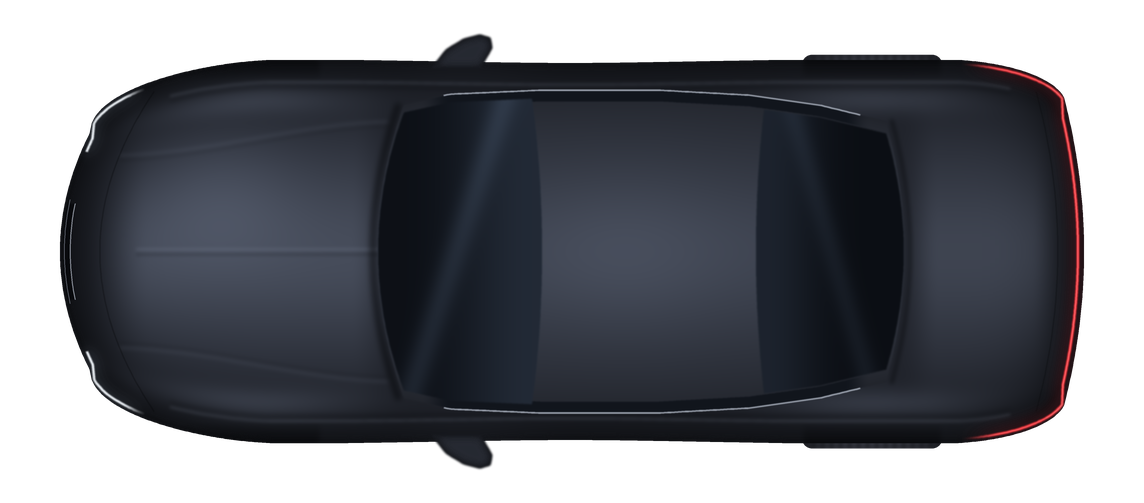
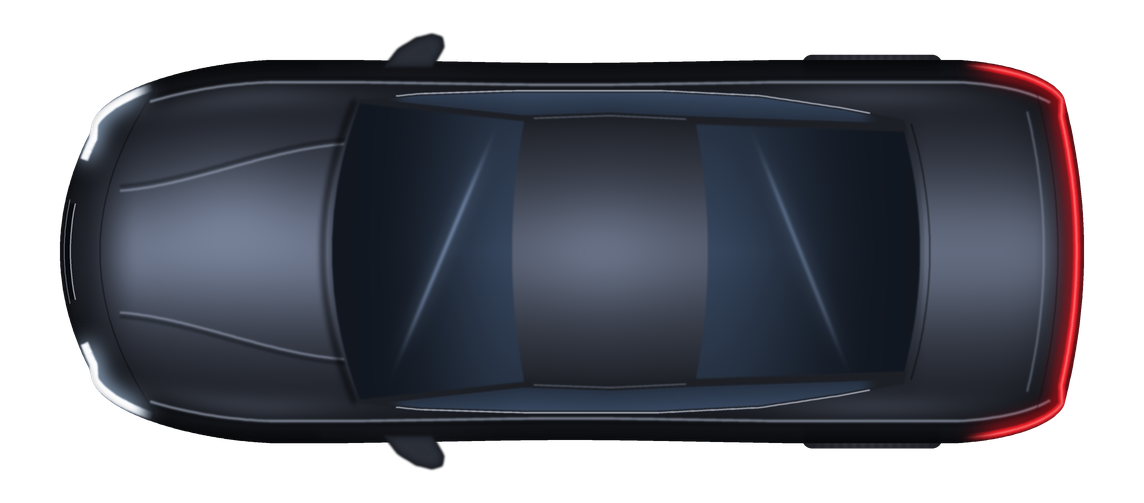
feat(hud): K9 R 차 그림 완성본 - 실물 비율 유리·지붕, 입체 음영, 또렷한 램프, 꺾인 앞바퀴 펜더 안 (대감님 11/13 00:20)
- 비율(2020 K9 RJ, 길이 5.12 m): 보닛 1.30 m(앞 패널 틈 0.20 -> 카울 1.50), 앞유리 1.50 -> 2.32,
  지붕 2.32 -> 3.18(가운데 2.75 = 차 가운데 2.56보다 0.19 m 뒤), 뒷유리 패스트백 3.18 -> 4.22, 트렁크 0.90 m
- 앞유리 아래 넓은 사다리꼴(반폭 0.74 -> 0.65), 위아래 곡선. 유리에 하늘 반사 그라데이션 + 대각 하이라이트 한 줄
- 지붕·보닛·트렁크 가운데 밝고 양옆 어두운 가로 그라데이션, 어깨선·보닛 주름 하이라이트+어두운 접힘 쌍
- 옆유리 약 0.10 m 폭으로 넓힘, 사이드미러 A필러 뒤로
- 후미등 굵게(0.034 m)+빨간 빛 번짐, 헤드램프 굵고 밝게
- 앞바퀴: 꺾일 때 튀어나오는 만큼 중심을 안쪽으로(표시만), 펜더 밖으로 최대 0.02 m 더
- 후진 길(REVERSE_GEOMETRY 3.105/14.5)·축척·차 크기·글자 자리 그대로. EV6 P/R/D, K9 P/D 화소 0(72e78f13d 대비),
  HUD 묶음 실패 6 이름 41aaddcb9와 동일, ruff 새 경고 0, 실차 미검증

diff --git a/openpilot/selfdrive/carrot/cluster/make_k9_reverse_sprite.py b/openpilot/selfdrive/carrot/cluster/make_k9_reverse_sprite.py
@@ -1,11 +1,14 @@
 #!/usr/bin/env python3
 """Top view of the 2020 K9 (RJ) for the K9 reverse (R) screen, drawn in code (no photo, no 3D model, no plate, no logo).
 
-Surround-view style illustration: smooth tapered nose and tail with a slight waist, a long hood with soft creases,
-one smooth painted roof (black metal gradient) between the dark windshield and rear glass, side glass only as thin
-slivers under a fine chrome window line, mirrors, four tyres at the 3105 mm wheelbase / ~1630 mm track that peek a
-few px past the body, a thin full-width tail lamp line wrapping round both corners, thin white headlamps at the
-front corners and a small chrome grille line at the nose. Soft shadow, no hard light rim.
+Surround-view style illustration (2020 K9 RJ proportions): hood 1.30 m from the front panel gap to the cowl, wide
+trapezoid windshield with curved edges, roof centre 2.75 m from the nose (car centre 2.56 m, i.e. 0.19 m behind), long
+gentle fastback rear glass, trunk lid 0.90 m. Dark metal paint bright along the centre line and darker to both sides
+(hood, roof, trunk), fine shoulder and hood crease highlights, side glass wide enough to read on the R screen, glass
+with a sky reflection gradient and one thin diagonal highlight, mirrors, four tyres at the 3105 mm wheelbase /
+~1630 mm track that peek a few px past the body (front tyres are drawn by the renderer under the body), a bright red
+tail lamp line with glow wrapping round both corners, bright white headlamps at the front corners, small chrome
+grille line at the nose. Soft shadow, no hard light rim, no logo or plate.
 Plan size 5120 x 1915 mm. Drawn at SS x the output resolution, then reduced (smooth edges).
 Car front to the left, car right side up (same as the R screen camera).
 Outputs (same frame: PAD metres of margin around the body at PPM px/m):
@@ -129,16 +132,24 @@ def to_image(rgb, alpha, size):
   return Image.fromarray(out, "RGBA").resize(size, Image.LANCZOS)
 
 
-# ---- greenhouse ---------------------------------------------------------------------------------------------
-G_U = np.array([1.72, 1.95, 2.40, 3.00, 3.45, 3.80, 4.13])
-G_V = np.array([0.735, 0.785, 0.805, 0.805, 0.780, 0.730, 0.650])
-G_FRONT_BOW, G_REAR_BOW = 0.13, 0.09
-ROOF_F, ROOF_R = 2.36, 3.52  # windshield top / rear glass top
-SIDE_GLASS = 0.055  # side glass seen from above: only a thin sliver outside the roof
+# ---- greenhouse (2020 K9 RJ proportions, top view) ---------------------------------------------------------------
+# hood 0.20 -> COWL (1.30 m), windshield COWL -> ROOF_F, roof ROOF_F -> ROOF_R (centre 2.75, car centre 2.56),
+# fastback rear glass ROOF_R -> DECK, trunk lid DECK -> L (0.90 m)
+COWL, ROOF_F, ROOF_R, DECK = 1.50, 2.32, 3.18, 4.22
+G_U = np.array([COWL, 1.80, 2.30, 3.00, 3.50, 3.90, DECK])
+G_V = np.array([0.760, 0.790, 0.805, 0.805, 0.780, 0.720, 0.660])  # glass outer edge (beltline)
+C_U = np.array([COWL, ROOF_F, 2.75, ROOF_R, DECK])
+C_V = np.array([0.740, 0.650, 0.665, 0.645, 0.610])  # cabin top: windshield / roof / rear glass edge (pillars inside)
+G_FRONT_BOW, G_REAR_BOW = 0.16, 0.10
+PILLAR = 0.030  # A / C pillar and roof rail width seen from above
 
 
 def g_half(u):
   return np.interp(u, G_U, G_V)
+
+
+def c_half(u):
+  return np.interp(u, C_U, C_V)
 
 
 def band(u0, u1, half, bow0, bow1, n=200):
@@ -194,9 +205,9 @@ def render():
   # mirrors: teardrop on each side just behind the A-pillar base (body coloured caps)
   mirrors = []
   for s in (1, -1):
-    base = float(body_half(2.02))
-    pts = [(1.86, s * (base - 0.03)), (1.93, s * (base + 0.06)), (2.02, s * (base + 0.115)), (2.10, s * (base + 0.135)),
-           (2.15, s * (base + 0.12)), (2.16, s * (base + 0.07)), (2.12, s * (base + 0.0)), (2.10, s * (base - 0.03))]
+    base = float(body_half(1.78))
+    pts = [(1.62, s * (base - 0.03)), (1.69, s * (base + 0.06)), (1.78, s * (base + 0.115)), (1.86, s * (base + 0.135)),
+           (1.91, s * (base + 0.12)), (1.92, s * (base + 0.07)), (1.88, s * (base + 0.0)), (1.86, s * (base - 0.03))]
     arr = np.array(pts)
     t = np.linspace(0, 1, len(arr))
     xs = np.linspace(0, 1, 60)
@@ -228,19 +239,21 @@ def render():
     m = tyre_mask(REAR_AXLE_U, v_c, WHEEL_D, w)
     rgb, alpha = over(rgb, alpha, tyre_paint(U, V, REAR_AXLE_U, v_c, WHEEL_D, w), m)
 
-  # paint: dark metal, lit from above - a broad soft sheen on the centre, darker towards the curved edges
-  edge = blur(car, 0.20)
-  shade = 0.42 + 0.58 * np.clip((edge - 0.5) * 2.0, 0, 1) ** 0.8
-  base = np.array([34, 37, 45], np.float32)
-  spec_col = np.array([120, 130, 150], np.float32)
+  # paint: dark metal lit from above - bright along the centre line, darker towards both sides (hood, roof, trunk)
+  edge = blur(car, 0.16)
+  rim_shade = 0.40 + 0.60 * np.clip((edge - 0.5) * 2.0, 0, 1) ** 0.7
   bw_u = body_half(np.clip(U, 0, L))
   vn = V / np.maximum(bw_u, 0.3)
-  hood = smooth(0.10, 0.45, U) * (1 - smooth(1.45, 1.72, U))
-  trunk = smooth(4.18, 4.40, U) * (1 - smooth(4.85, 5.05, U))
-  sheen = np.exp(-(vn / 0.55) ** 2) * (0.30 * hood + 0.24 * trunk)
-  sheen += 0.12 * np.exp(-((U - 0.80) / 0.40) ** 2 - ((V - 0.30) / 0.35) ** 2) * hood  # soft key light patch
+  cross = np.clip(1 - vn ** 2, 0, 1)
+  shade = rim_shade * (0.50 + 0.50 * cross ** 0.8)
+  base = np.array([42, 46, 56], np.float32)
+  spec_col = np.array([140, 152, 176], np.float32)
+  hood = smooth(0.12, 0.40, U) * (1 - smooth(COWL - 0.15, COWL, U))
+  trunk = smooth(DECK, DECK + 0.12, U) * (1 - smooth(L - 0.25, L - 0.05, U))
+  sheen = np.exp(-(vn / 0.42) ** 2) * (0.46 * hood + 0.40 * trunk)
+  sheen += 0.14 * np.exp(-((U - 0.85) / 0.35) ** 2 - ((V - 0.25) / 0.30) ** 2) * hood  # soft key light patch
   axles = np.exp(-((U - FRONT_AXLE_U) / 0.50) ** 2) + np.exp(-((U - REAR_AXLE_U) / 0.50) ** 2)
-  fender = np.exp(-((np.abs(vn) - 0.80) / 0.08) ** 2) * axles * 0.22  # fender shoulders catch a little light
+  fender = np.exp(-((np.abs(vn) - 0.82) / 0.07) ** 2) * axles * 0.26  # fender shoulders catch a little light
   spec = sheen + fender
   paint = base * shade[..., None] + spec_col * spec[..., None] * shade[..., None]
   rgb, alpha = over(rgb, alpha, paint, car)
@@ -260,96 +273,107 @@ def render():
       m = blur(m, soft)
     rgb, alpha = over(rgb, alpha, color, m * a * car)
 
-  # waist / shoulder line along both sides (subtle highlight over a soft dark line)
+  # shoulder line along both sides: fine bright highlight with a dark fold just outside it
   for s in (1, -1):
-    us = np.linspace(0.55, 4.75, 120)
+    us = np.linspace(0.45, 4.95, 160)
     vs = s * (body_half(us) * 0.885)
-    paint_lines(list(zip(us, vs, strict=True)), 0.010, (150, 160, 180), 0.22, 0.008)
-    paint_lines(list(zip(us, vs - s * 0.025, strict=True)), 0.016, (8, 9, 12), 0.22, 0.010)
-  # hood: soft centre crease and two gentle character lines
-  us = np.linspace(0.38, 1.60, 60)
-  paint_lines(list(zip(us, np.full_like(us, 0.012), strict=True)), 0.010, (150, 160, 182), 0.20, 0.008)
-  paint_lines(list(zip(us, np.full_like(us, -0.014), strict=True)), 0.012, (6, 7, 9), 0.20, 0.008)
+    paint_lines(list(zip(us, vs, strict=True)), 0.013, (185, 196, 216), 0.60, 0.004)
+    paint_lines(list(zip(us, vs + s * 0.022, strict=True)), 0.016, (6, 7, 10), 0.45, 0.006)
+  # hood: two character creases converging to the nose (light on the inner face, dark on the outer)
   for s in (1, -1):
-    us = np.linspace(0.30, 1.64, 60)
-    vs = s * (0.48 + 0.17 * smooth(0.25, 1.7, us))
-    paint_lines(list(zip(us, vs, strict=True)), 0.010, (140, 150, 172), 0.18, 0.010)
-    paint_lines(list(zip(us, vs - s * 0.02, strict=True)), 0.012, (6, 7, 9), 0.16, 0.010)
-  # panel gaps: hood front, trunk lid (fine, dark, low contrast)
+    us = np.linspace(0.30, COWL - 0.06, 80)
+    vs = s * (0.30 + 0.24 * smooth(0.20, COWL, us))
+    paint_lines(list(zip(us, vs, strict=True)), 0.013, (175, 186, 208), 0.50, 0.004)
+    paint_lines(list(zip(us, vs + s * 0.022, strict=True)), 0.016, (6, 7, 10), 0.42, 0.006)
+  # trunk: lip line near the rear edge
+  vv = np.linspace(-0.70, 0.70, 80)
+  paint_lines([(rear_edge(x) - 0.20, x) for x in vv], 0.010, (165, 176, 198), 0.40, 0.004)
+  # panel gaps: hood front, trunk lid front, trunk rear
   vv = np.linspace(-0.80, 0.80, 80)
-  paint_lines([(front_edge(x) + 0.20, x) for x in vv], 0.005, (6, 7, 9), 0.45, 0.002)
-  vv = np.linspace(-0.66, 0.66, 80)
-  paint_lines([(4.13 + G_REAR_BOW * (1 - (x / 0.65) ** 2) + 0.03, x) for x in vv], 0.016, (4, 5, 7), 0.45, 0.010)
+  paint_lines([(front_edge(x) + 0.20, x) for x in vv], 0.006, (6, 7, 9), 0.55, 0.002)
+  vv = np.linspace(-0.64, 0.64, 80)
+  paint_lines([(DECK + G_REAR_BOW * (1 - (x / 0.66) ** 2) + 0.03, x) for x in vv], 0.008, (4, 5, 7), 0.55, 0.003)
   vv = np.linspace(-0.80, 0.80, 80)
-  paint_lines([(rear_edge(x) - 0.13, x) for x in vv], 0.005, (6, 7, 9), 0.40, 0.002)
+  paint_lines([(rear_edge(x) - 0.13, x) for x in vv], 0.006, (6, 7, 9), 0.45, 0.002)
 
-  # ---- greenhouse: dark windshield and rear glass, one smooth painted roof, thin side glass slivers ----
-  g_mask = mask_of(band(1.72, 4.13, g_half, G_FRONT_BOW, G_REAR_BOW))
-  glass_dark = np.array([6, 8, 12], np.float32)
-  sky = np.array([70, 84, 104], np.float32)
-  vv = np.linspace(-0.74, 0.74, 80)  # cowl shadow in front of the windshield
-  paint_lines([(1.72 - G_FRONT_BOW * (1 - (x / 0.74) ** 2) - 0.025, x) for x in vv], 0.03, (3, 4, 6), 0.55, 0.014)
-  # whole cabin top in paint first (roof + pillars), then the glass areas cut into it
-  rv = V / np.maximum(g_half(np.clip(U, 1.72, 4.13)), 0.3)
+  # ---- greenhouse: wide trapezoid windshield, roof, fastback rear glass, side glass ----
+  g_mask = mask_of(band(COWL, DECK, g_half, G_FRONT_BOW, G_REAR_BOW))
+  glass_dark = np.array([5, 7, 11], np.float32)
+  sky = np.array([95, 122, 160], np.float32)
+  vv = np.linspace(-0.76, 0.76, 80)  # cowl shadow in front of the windshield
+  paint_lines([(COWL - G_FRONT_BOW * (1 - (x / 0.76) ** 2) - 0.025, x) for x in vv], 0.03, (3, 4, 6), 0.60, 0.012)
+  # whole cabin top in paint first (roof + pillars): bright centre, darker to both sides
+  rv = V / np.maximum(c_half(np.clip(U, COWL, DECK)), 0.3)
   ru = (U - ROOF_F) / (ROOF_R - ROOF_F)
-  roof_shade = 0.58 + 0.42 * np.clip(1 - rv ** 2, 0, 1) ** 0.7
-  roof_spec = 0.10 + 0.20 * np.exp(-(rv / 0.55) ** 2) * (0.6 + 0.4 * np.exp(-((ru - 0.40) / 0.45) ** 2))
+  roof_shade = 0.40 + 0.60 * np.clip(1 - rv ** 2, 0, 1) ** 0.8
+  roof_spec = 0.08 + 0.34 * np.exp(-(rv / 0.45) ** 2) * (0.55 + 0.45 * np.exp(-((ru - 0.45) / 0.45) ** 2))
   roof_col = base * 1.05 * roof_shade[..., None] + spec_col * roof_spec[..., None]
   rgb, alpha = over(rgb, alpha, roof_col, blur(g_mask, 0.004))
 
-  def inset_half(d):
-    return lambda u: np.maximum(g_half(u) - d, 0.05)
+  def inset(f, d):
+    return lambda u: np.maximum(f(u) - d, 0.05)
 
-  # side glass: thin dark sliver along each side of the cabin (tumblehome seen from above)
-  side = mask_of(band(1.80, 4.05, g_half, 0.0, 0.0)) * (1 - mask_of(band(1.70, 4.15, inset_half(SIDE_GLASS), 0.0, 0.0)))
-  side = blur(side, 0.003)
-  rgb, alpha = over(rgb, alpha, glass_dark + sky * 0.16, side * smooth(1.80, 1.95, U) * (1 - smooth(3.92, 4.05, U)))
-  # windshield: from the cowl to the roof front, between thin A pillars
-  ws = mask_of(band(1.72, ROOF_F, inset_half(0.040), G_FRONT_BOW, 0.05))
-  t = smooth(1.60, ROOF_F, U)
-  ws_col = glass_dark + sky * (0.10 + 0.30 * t ** 1.6)[..., None]
-  ws_col = ws_col + np.array([80, 95, 115]) * (np.exp(-(((U - 1.98) - V * 0.32) / 0.07) ** 2) * 0.20)[..., None]
-  rgb, alpha = over(rgb, alpha, ws_col, blur(ws, 0.004))
-  # rear glass: from the roof back edge to the trunk, between C pillars
-  rgm = mask_of(band(ROOF_R, 4.13, inset_half(0.060), 0.04, G_REAR_BOW))
-  t2 = 1 - smooth(ROOF_R, 4.12, U)
-  rg_col = glass_dark + sky * (0.08 + 0.24 * t2 ** 2)[..., None]
-  rg_col = rg_col + np.array([80, 95, 115]) * (np.exp(-(((U - 3.86) + V * 0.28) / 0.06) ** 2) * 0.12)[..., None]
-  rgb, alpha = over(rgb, alpha, rg_col, blur(rgm, 0.004))
-  # chrome window line (DLO): thin, along the outer edge of the side glass
+  def outset(f, d):
+    return lambda u: f(u) + d
+
+  # side glass: between the beltline and the pillars / roof rail
+  side = mask_of(band(1.62, 4.10, inset(g_half, 0.010), 0.0, 0.0)) * (1 - mask_of(band(1.40, 4.30, outset(c_half, PILLAR), 0.0, 0.0)))
+  side = blur(side, 0.003) * smooth(1.62, 1.75, U) * (1 - smooth(3.98, 4.10, U))
+  sg_col = glass_dark + sky * (0.30 + 0.22 * np.clip((np.abs(V) - c_half(np.clip(U, COWL, DECK))) / 0.14, 0, 1))[..., None]
+  rgb, alpha = over(rgb, alpha, sg_col, side)
+
+  def glass(mask, t, k_line, u_line, strength):
+    """dark glass with sky reflection (bright towards t=1) and one thin diagonal highlight."""
+    nonlocal rgb, alpha
+    col = glass_dark + sky * (0.13 + 0.40 * t ** 1.5)[..., None]
+    d = (U - u_line) - V * k_line
+    streak = (np.exp(-(d / 0.014) ** 2) * 0.32 + np.exp(-(d / 0.06) ** 2) * 0.10) * np.exp(-(V / 0.45) ** 4)
+    col = col + np.array([150, 170, 200], np.float32) * (streak * strength)[..., None]
+    rgb, alpha = over(rgb, alpha, col, blur(mask, 0.004))
+
+  # windshield: wide at the cowl, narrower at the roof (A pillars), curved top and bottom edges
+  ws = mask_of(band(COWL, ROOF_F, c_half, G_FRONT_BOW - 0.02, -0.06))
+  glass(ws, smooth(COWL - 0.10, ROOF_F, U) * (1 - 0.35 * np.abs(V) / 0.75), 0.42, 1.92, 1.0)
+  # rear glass: long gentle fastback from the roof back edge to the trunk lid, C pillars
+  rgm = mask_of(band(ROOF_R, DECK, inset(c_half, 0.010), -0.06, G_REAR_BOW - 0.02))
+  glass(rgm, (1 - smooth(ROOF_R, DECK + 0.10, U)) * (1 - 0.35 * np.abs(V) / 0.70), -0.40, 3.70, 0.75)
+  # chrome window line (DLO) along the beltline
   for s in (1, -1):
-    us = np.linspace(1.92, 4.00, 120)
-    paint_lines(list(zip(us, s * (g_half(us) + 0.002), strict=True)), 0.007, (200, 208, 222), 0.80, 0.002)
+    us = np.linspace(1.68, 4.05, 120)
+    paint_lines(list(zip(us, s * g_half(us), strict=True)), 0.008, (205, 212, 226), 0.80, 0.002)
+  # roof rails: fine highlight on the roof edge
+  for s in (1, -1):
+    us = np.linspace(ROOF_F + 0.05, ROOF_R - 0.05, 80)
+    paint_lines(list(zip(us, s * (c_half(us) + PILLAR * 0.5), strict=True)), 0.008, (150, 160, 182), 0.40, 0.003)
 
   # ---- lamps ----
-  # tail lamp: one thin light line across the rear, running smoothly round both corners and along the sides
+  # tail lamp: one bright red light line across the rear, wrapping round both corners, with a red glow
   vr = float(body_half(L - BOW_R))
-  # one continuous chain: left wrap -> rear -> right wrap
-  left = [(u, -(body_half(u) - 0.020)) for u in np.linspace(L - 0.62, L - BOW_R - 0.02, 40)]
-  rear = [(rear_edge(x) - 0.030, x) for x in np.linspace(-vr + 0.06, vr - 0.06, 160)]
-  right = [(u, body_half(u) - 0.020) for u in np.linspace(L - BOW_R - 0.02, L - 0.62, 40)]
+  left = [(u, -(body_half(u) - 0.024)) for u in np.linspace(L - 0.62, L - BOW_R - 0.02, 40)]
+  rear = [(rear_edge(x) - 0.036, x) for x in np.linspace(-vr + 0.06, vr - 0.06, 160)]
+  right = [(u, body_half(u) - 0.024) for u in np.linspace(L - BOW_R - 0.02, L - 0.62, 40)]
   tl_chain = left + rear + right
-  tl = blur(line_mask(tl_chain, 0.014), 0.003)
-  taper = smooth(L - 0.62, L - 0.40, U)  # wraps fade out along the sides
-  tl = tl * taper
-  rgb, alpha = over(rgb, alpha, (255, 30, 40), np.clip(blur(tl, 0.035) * 1.5, 0, 1) * 0.45 * car)
-  rgb, alpha = over(rgb, alpha, (255, 55, 62), tl * car)
-  rgb, alpha = over(rgb, alpha, (255, 175, 175), blur(line_mask(tl_chain, 0.004), 0.002) * taper * 0.55 * car)
-  # headlamps: thin white light at both front corners, wrapping a little along the sides
+  taper = smooth(L - 0.62, L - 0.40, U)
+  tl = blur(line_mask(tl_chain, 0.034), 0.004) * taper
+  rgb, alpha = over(rgb, alpha, (255, 20, 30), np.clip(blur(tl, 0.045) * 2.2, 0, 1) * 0.75 * car)
+  rgb, alpha = over(rgb, alpha, (240, 28, 38), tl * car)
+  rgb, alpha = over(rgb, alpha, (255, 120, 120), blur(line_mask(tl_chain, 0.010), 0.003) * taper * 0.85 * car)
+  # headlamps: bright white light at both front corners, wrapping a little along the sides
   vf = float(body_half(BOW_F))
   hl = np.zeros_like(body)
   for s in (1, -1):
-    pts = [(front_edge(x) + 0.028, s * x) for x in np.linspace(0.50, vf - 0.03, 40)]
-    pts += [(u, s * (body_half(u) - 0.024)) for u in np.linspace(BOW_F + 0.02, 0.42, 20)]
-    hl = np.maximum(hl, line_mask(pts, 0.013))
-  hl = blur(hl, 0.003) * (1 - smooth(0.30, 0.44, U))
-  rgb, alpha = over(rgb, alpha, (200, 225, 255), np.clip(blur(hl, 0.03) * 1.4, 0, 1) * 0.40 * car)
-  rgb, alpha = over(rgb, alpha, (245, 250, 255), hl * car)
+    pts = [(front_edge(x) + 0.032, s * x) for x in np.linspace(0.46, vf - 0.03, 40)]
+    pts += [(u, s * (body_half(u) - 0.028)) for u in np.linspace(BOW_F + 0.02, 0.46, 20)]
+    hl = np.maximum(hl, line_mask(pts, 0.040))
+  hl = blur(hl, 0.004) * (1 - smooth(0.34, 0.48, U))
+  rgb, alpha = over(rgb, alpha, (190, 220, 255), np.clip(blur(hl, 0.05) * 2.4, 0, 1) * 0.75 * car)
+  rgb, alpha = over(rgb, alpha, (225, 238, 255), hl * car)
+  rgb, alpha = over(rgb, alpha, (255, 255, 255), blur(hl, 0.002) ** 2 * car)
   # grille: small chrome line at the centre of the nose (dark sliver behind it), no logo
   vv = np.linspace(-0.24, 0.24, 40)
   rgb, alpha = over(rgb, alpha, (8, 9, 12), blur(line_mask([(front_edge(x) + 0.035, x) for x in vv], 0.030), 0.004) * car * 0.9)
-  rgb, alpha = over(rgb, alpha, (205, 212, 226), line_mask([(front_edge(x) + 0.052, x) for x in vv], 0.005) * car * 0.65)
-  rgb, alpha = over(rgb, alpha, (170, 178, 196), line_mask([(front_edge(x) + 0.022, x) for x in np.linspace(-0.26, 0.26, 40)], 0.004) * car * 0.55)
+  rgb, alpha = over(rgb, alpha, (205, 212, 226), line_mask([(front_edge(x) + 0.052, x) for x in vv], 0.006) * car * 0.70)
+  rgb, alpha = over(rgb, alpha, (170, 178, 196), line_mask([(front_edge(x) + 0.022, x) for x in np.linspace(-0.26, 0.26, 40)], 0.005) * car * 0.55)
 
   # mirrors: body coloured caps with a soft top highlight
   for m in mirrors:

diff --git a/openpilot/selfdrive/carrot/cluster/cluster_renderer.py b/openpilot/selfdrive/carrot/cluster/cluster_renderer.py
@@ -143,6 +143,8 @@ K9_REVERSE_SPRITE_PPM = 200.0  # make_k9_reverse_sprite.py PPM (wheel image px -
 K9_REVERSE_FRONT_AXLE_FROM_REAR_M = 1.06 + 3.105  # rear overhang + wheelbase
 K9_REVERSE_FRONT_TRACK_M = 1.63
 K9_REVERSE_DISPLAY_STEER_RATIO = 14.5
+K9_REVERSE_WHEEL_PAD_M = 0.03  # make_k9_reverse_sprite.py WHEEL_PAD
+K9_REVERSE_WHEEL_PEEK_M = 0.02  # turned front tyre: at most this much more past the fender
 # 23:56: alert text on the K9 R screen goes to the right column under the blind-spot row (not over the car);
 # colours and sizes are the normal alert ones
 K9_REVERSE_ALERT_CENTER = (1680.0, 305.0)
@@ -3233,7 +3235,13 @@ class ClusterUiRenderer:
             # positive steering = wheels to the left: the tyre front (screen left) turns to the car's left (screen down)
             angle = -steering_deg / K9_REVERSE_DISPLAY_STEER_RATIO
             axle_y = EV6_REVERSE_REAR_BUMPER_Y_M + K9_REVERSE_FRONT_AXLE_FROM_REAR_M
-            for x in (-K9_REVERSE_FRONT_TRACK_M / 2, K9_REVERSE_FRONT_TRACK_M / 2):
+            # 대감님 11/13 00:20: a turned tyre stays under the fender - its centre moves inward by the extra width the
+            # turned corners would stick out (display only), so only K9_REVERSE_WHEEL_PEEK_M more shows past the body
+            half_len = wheel.width / K9_REVERSE_SPRITE_PPM / 2 - K9_REVERSE_WHEEL_PAD_M
+            half_w = wheel.height / K9_REVERSE_SPRITE_PPM / 2 - K9_REVERSE_WHEEL_PAD_M
+            turn = math.radians(abs(angle))
+            inward = max(0.0, half_w * math.cos(turn) + half_len * math.sin(turn) - half_w - K9_REVERSE_WHEEL_PEEK_M)
+            for x in (-K9_REVERSE_FRONT_TRACK_M / 2 + inward, K9_REVERSE_FRONT_TRACK_M / 2 - inward):
                 c = rl.get_world_to_screen_ex(rl.Vector3(x, axle_y, 0.0), camera, int(self.width), int(self.height))
                 rl.draw_texture_pro(wheel, rl.Rectangle(0, 0, wheel.width, wheel.height),
                                     rl.Rectangle(c.x, c.y, w_px, h_px), rl.Vector2(w_px / 2, h_px / 2), angle, rl.WHITE)
